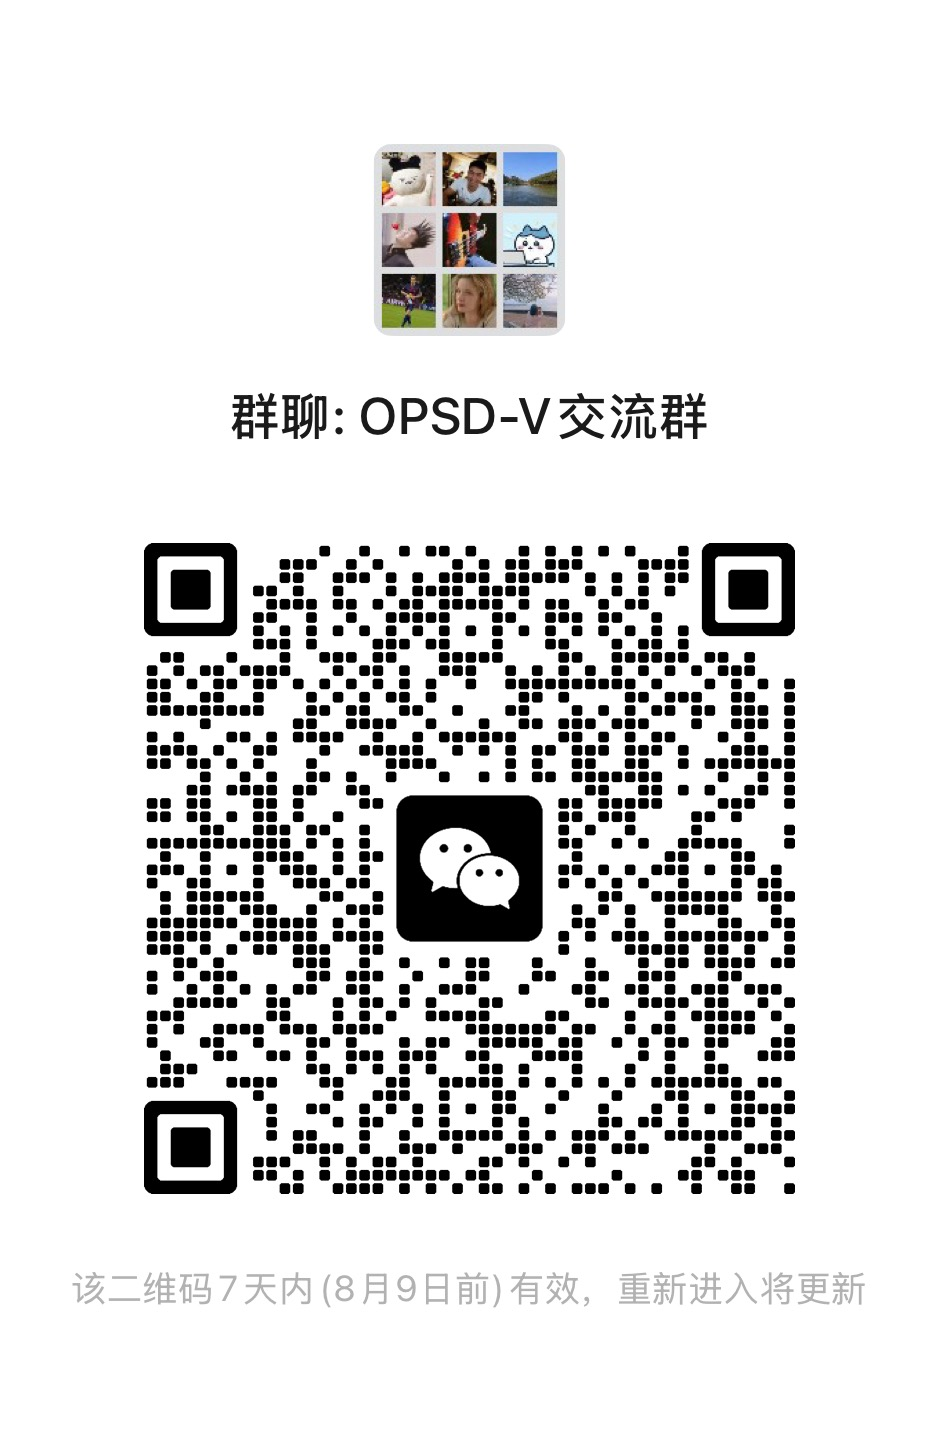
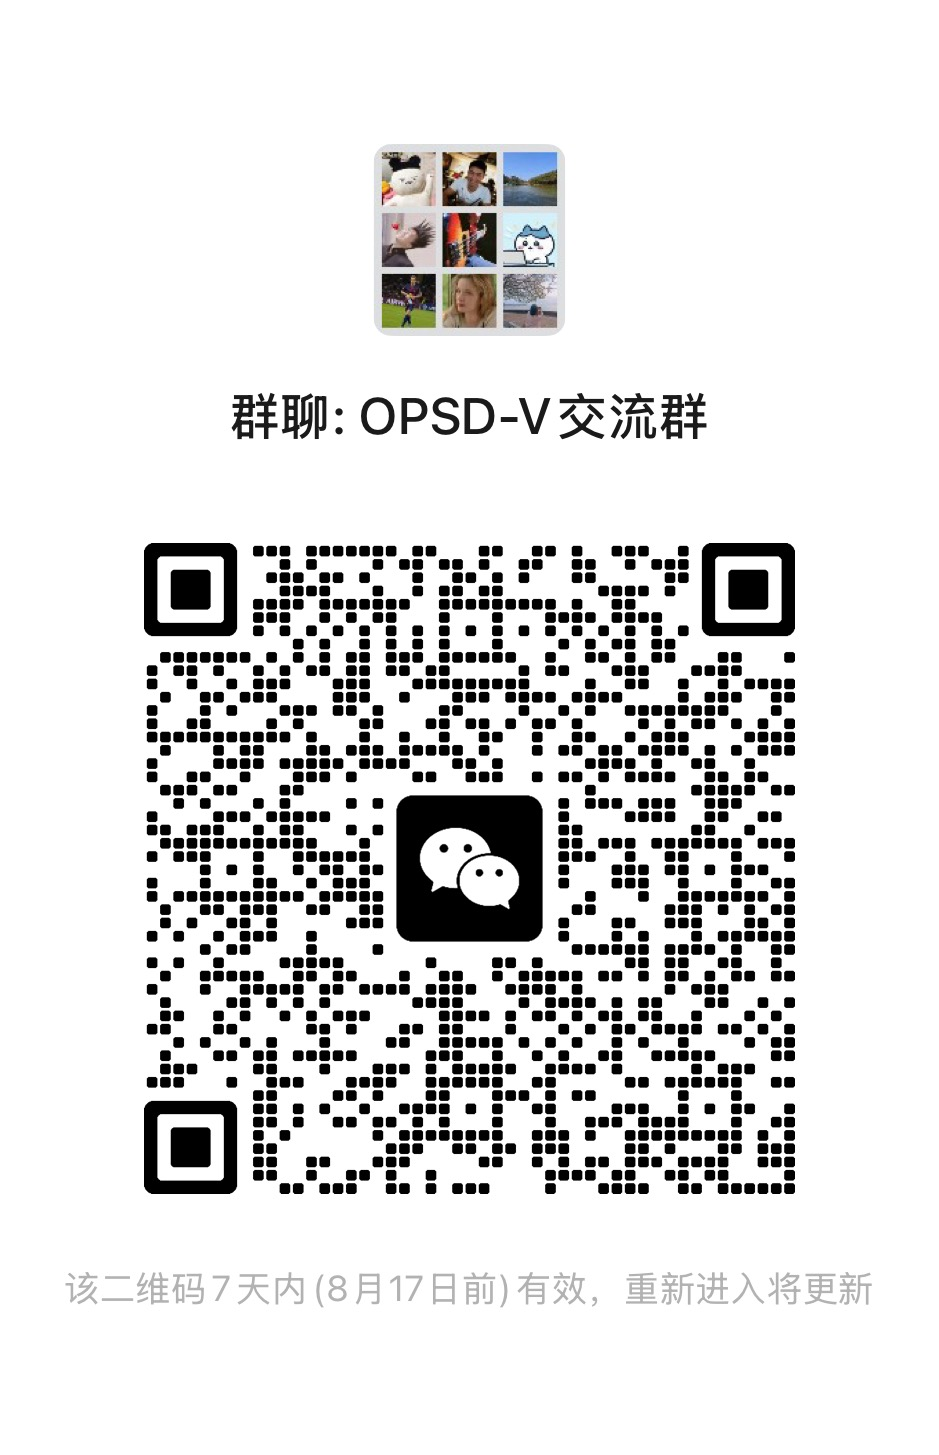
docs: update citation and community QR code

Changed region(s): [[0.1544, 0.3711, 0.8647, 0.8351], [0.0618, 0.866, 0.6177, 0.8969], [0.6486, 0.866, 0.9265, 0.8969]]

diff --git a/README.md b/README.md
@@ -30,6 +30,7 @@
 </p>
 
 <p align="center">
+  <a href="#news">News</a> |
   <a href="#installation">Installation</a> |
   <a href="#checkpoints">Checkpoints</a> |
   <a href="#training">Training</a> |
@@ -53,6 +54,10 @@
   </a>
 </p>
 
+## News
+
+- **9 Jul 2026:** We released the paper, model checkpoints, and training and inference code.
+
 ## WeChat Group
 
 <p align="center">
@@ -60,7 +65,7 @@
 </p>
 
 <p align="center">
-  Scan the QR code to join the OPSD-V discussion group. The code is valid until July 29, 2026.
+  Scan the QR code to join the OPSD-V discussion group. The code is valid until August 17, 2026.
 </p>
 
 OPSD-V is an on-policy self-distillation paradigm for post-training few-step autoregressive video diffusion models. It targets long-horizon error accumulation and weakened motion dynamics in distilled AR video generators while preserving the original few-step inference path. The student follows the exact deployment rollout, generating each chunk from its own evolving KV cache, while the teacher is evaluated at the same student-visited denoising states with a cleaner AR-consistent temporal cache built from real long-video context. This provides dense trajectory-level velocity supervision and improves long-horizon visual quality and motion dynamics without changing the sampler, number of denoising steps, or inference-time cache mechanism.
@@ -450,11 +455,11 @@ scaling direction as an important avenue for future exploration.
 ## Citation
 
 ```bibtex
-@misc{liu2026opsdv,
-  title  = {OPSD-V: On-Policy Self-Distillation for Post-Training Few-Step Autoregressive Video Generators},
-  author = {Liu, Hongyu and Wang, Chun and Gao, Feng and He, Xuanhua and Ma, Yue and Wan, Ziyu and Zhang, Yong and Wei, Xiaoming and Chen, Qifeng},
-  year   = {2026},
-  note   = {Preprint}
+@article{liu2026opsd,
+  title={OPSD-V: On-Policy Self-Distillation for Post-Training Few-Step Autoregressive Video Generators},
+  author={Liu, Hongyu and Wang, Chun and Gao, Feng and He, Xuanhua and Ma, Yue and Wan, Ziyu and Zhang, Yong and Wei, Xiaoming and Chen, Qifeng},
+  journal={arXiv preprint arXiv:2607.08766},
+  year={2026}
 }
 ```
 
